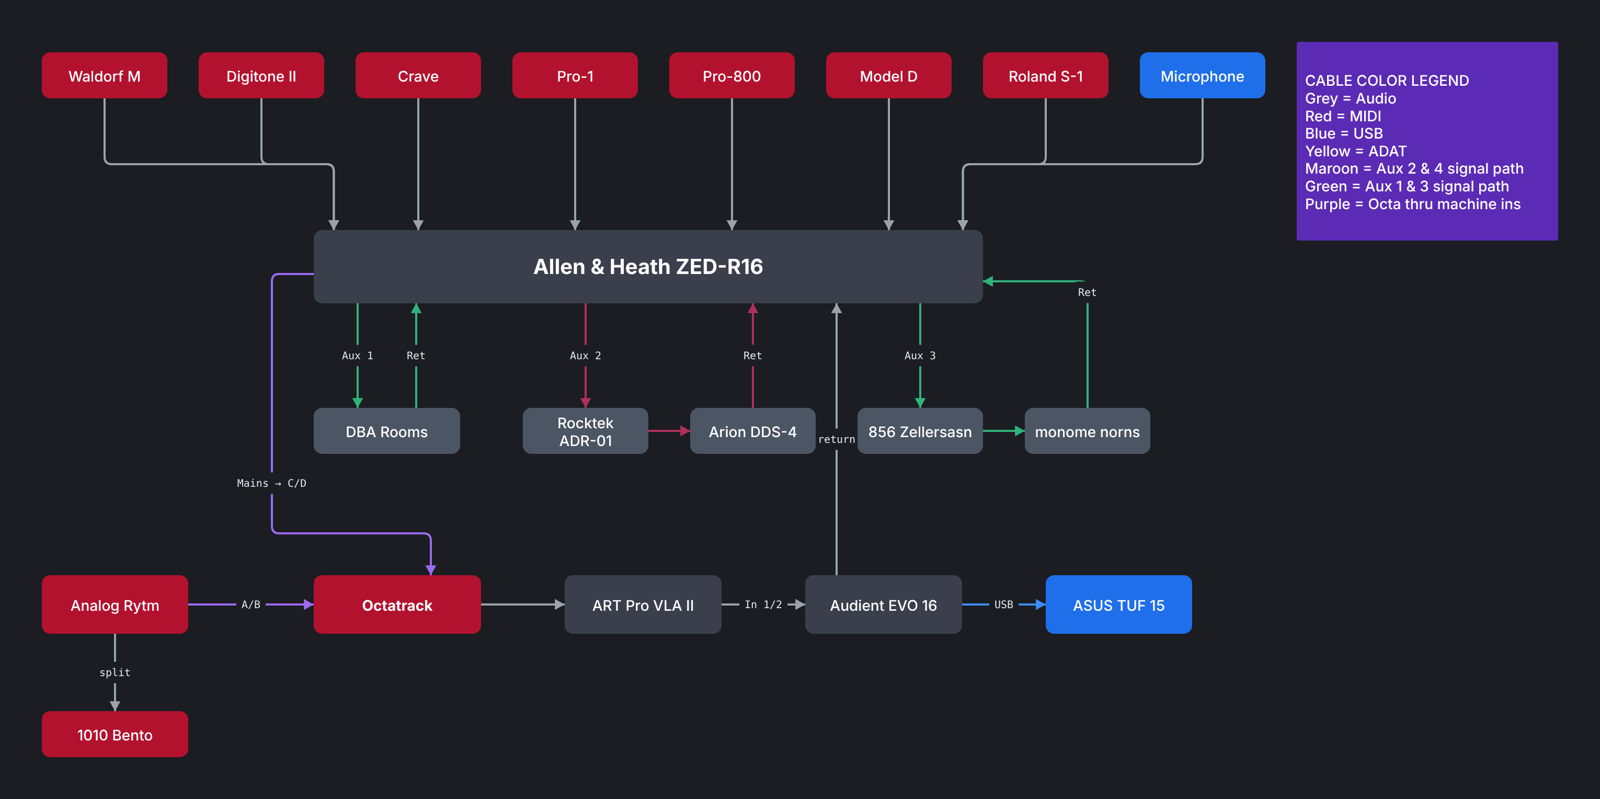
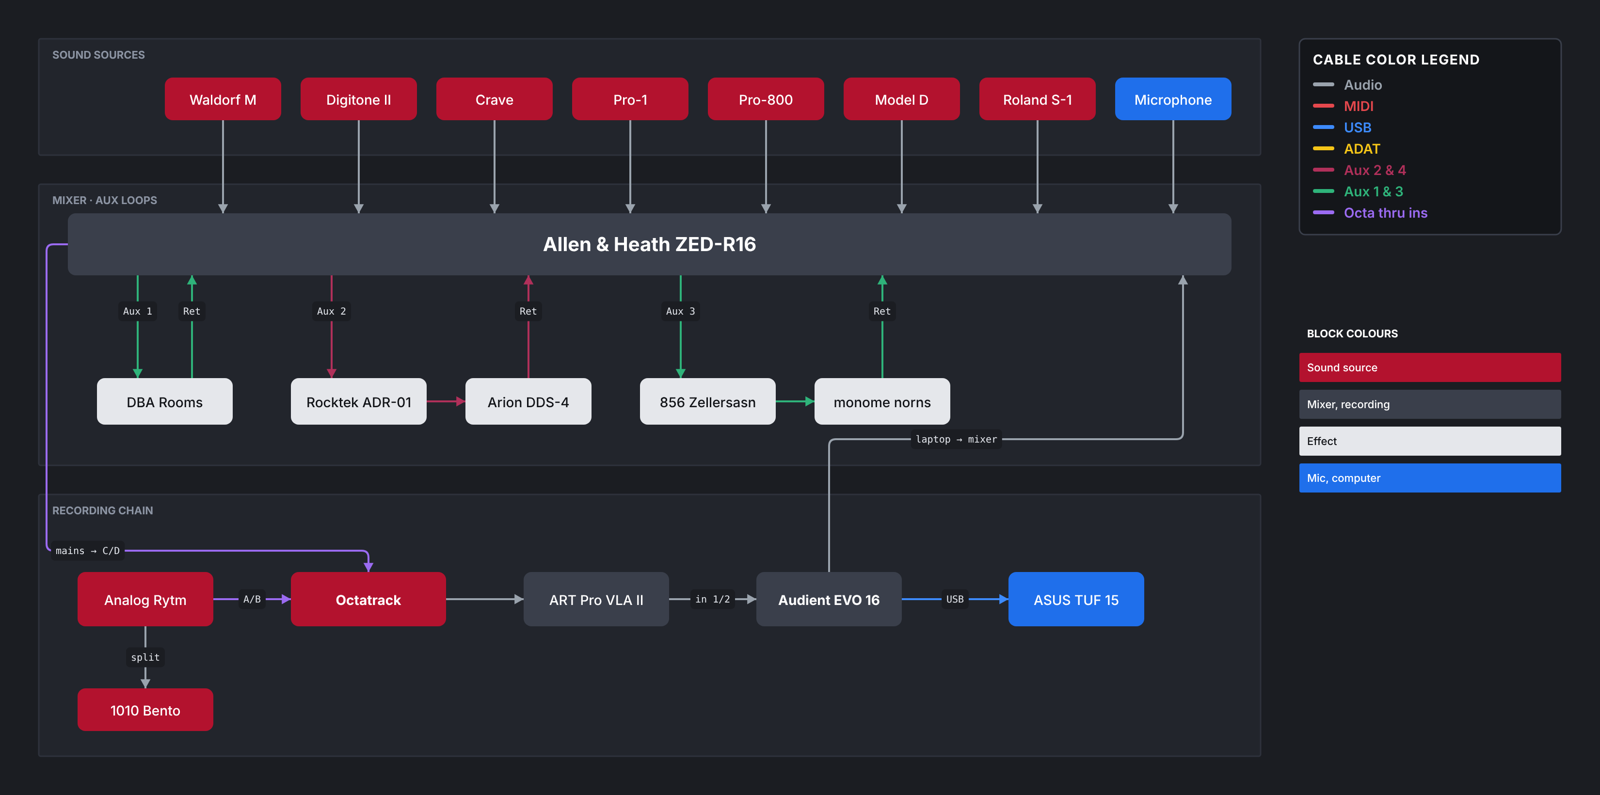
1.5.2: new example board; File → Add example board
The starter board now uses sections, self-routing cables (no fixed bends) and
the live legend, with a block colour key. README screenshot updated.

Claude-Session: https://claude.ai/code/session_01JnH6MJcacfThSkV8Vr75rK

diff --git a/index.html b/index.html
@@ -357,45 +357,54 @@ const W=id=>wmap.get(id);
 function newBoardObj(name){return {id:uid(),name,bg:'#1b1d22',grid:true,nodes:[],wires:[],legend:Object.fromEntries(WIRE_COLORS.map(c=>[c[0],c[1]])),view:null,created:Date.now()}}
 
 function seedBoard(){
-  const b=newBoardObj('Current Setup '+today());
-  const node=(text,x,y,fill,w=130,h=44,extra={})=>{const o={id:uid(),type:'round',x,y,w,h,text,fill,stroke:'none',textColor:'#ffffff',fontSize:'m',bold:false,align:'center',...extra};b.nodes.push(o);return o};
+  const b=newBoardObj('Example board');
+  const node=(text,x,y,fill,w=130,h=44,extra={})=>{const o={id:uid(),type:'round',x,y,w,h,text,fill,stroke:'none',textColor:fill==='#e5e7eb'?'#111317':'#ffffff',fontSize:'m',bold:false,align:'center',...extra};b.nodes.push(o);return o};
+  const zone=(text,x,y,w,h)=>node(text,x,y,'#22252c',w,h,{type:'rect',zone:true,stroke:'#2e323c',textColor:'#8c94a3',fontSize:'s',bold:true,align:'left'});
   const wire=(a,af,z,zf,color,label='',extra={})=>{const w={id:uid(),from:{node:a.id,fx:af[0],fy:af[1]},to:{node:z.id,fx:zf[0],fy:zf[1]},pts:[],color,width:2,style:'elbow',label,labelSize:'s',labelPos:.5,arrowEnd:true,arrowStart:false,dash:false,...extra};b.wires.push(w);return w};
-  const CR='#b3122e', SL='#3a3f4b', FX='#4b5563';
+  const SRC='#b3122e',MIX='#3a3f4b',FX='#e5e7eb',MIC='#1f6feb';
+  const AUD='#9aa3ad',USB='#3d8bfd',A13='#2fb37a',A24='#b0305a',OCT='#9b6bf2';
+  // sections first, so they sit behind everything
+  zone('SOUND SOURCES',40,40,1260,120);
+  zone('MIXER  ·  AUX LOOPS',40,190,1260,290);
+  zone('RECORDING CHAIN',40,510,1260,270);
+  // sources, each dropping straight into the mixer
   const names=['Waldorf M','Digitone II','Crave','Pro-1','Pro-800','Model D','Roland S-1','Microphone'];
-  const synths=names.map((t,i)=>node(t,40+i*150,60,i===7?'#1f6feb':CR,120,44));
-  const zed=node('Allen & Heath ZED-R16',300,230,SL,640,70,{fontSize:'l',bold:true});
-  synths.forEach((s,i)=>{const cx=s.x+s.w/2;const fx=clamp((cx-zed.x)/zed.w,.03,.97);wire(s,[.5,1],zed,[fx,0],'#9aa3ad')});
-  const rooms=node('DBA Rooms',300,400,FX,140,44);
-  const adr=node('Rocktek ADR-01',500,400,FX,120,44);
-  const dds=node('Arion DDS-4',660,400,FX,120,44);
-  const z856=node('856 Zellersasn',820,400,FX,120,44);
-  const norns=node('monome norns',980,400,FX,120,44);
-  const fxAt=x=>(x-zed.x)/zed.w;
-  wire(zed,[fxAt(342),1],rooms,[.3,0],'#2fb37a','Aux 1');
-  wire(rooms,[.7,0],zed,[fxAt(398),1],'#2fb37a','Ret');
-  wire(zed,[fxAt(560),1],adr,[.5,0],'#b0305a','Aux 2');
-  wire(adr,[1,.5],dds,[0,.5],'#b0305a');
-  wire(dds,[.5,0],zed,[fxAt(720),1],'#b0305a','Ret');
-  wire(zed,[fxAt(880),1],z856,[.5,0],'#2fb37a','Aux 3');
-  wire(z856,[1,.5],norns,[0,.5],'#2fb37a');
-  wire(norns,[.5,0],zed,[1,.7],'#2fb37a','Ret');
-  const rytm=node('Analog Rytm',40,560,CR,140,56);
-  const octa=node('Octatrack',300,560,CR,160,56,{bold:true});
-  const vla=node('ART Pro VLA II',540,560,SL,150,56);
-  const evo=node('Audient EVO 16',770,560,SL,150,56);
-  const lap=node('ASUS TUF 15',1000,560,'#1f6feb',140,56);
-  const bento=node('1010 Bento',40,690,CR,140,44);
-  wire(zed,[0,.6],octa,[.7,0],'#9b6bf2','Mains → C/D',{pts:[{x:260,y:520}]});
-  wire(rytm,[1,.5],octa,[0,.5],'#9b6bf2','A/B');
-  wire(rytm,[.5,1],bento,[.5,0],'#9aa3ad','split');
-  wire(octa,[1,.5],vla,[0,.5],'#9aa3ad');
-  wire(vla,[1,.5],evo,[0,.5],'#9aa3ad','In 1/2');
-  wire(evo,[1,.5],lap,[0,.5],'#3d8bfd','USB');
-  wire(evo,[.2,0],zed,[fxAt(800),1],'#9aa3ad','return',{style:'straight'});
-  node('CABLE COLOR LEGEND',1240,50,'#14161a',260,60,{type:'legend',stroke:'#3a3f4b',align:'left',bold:true,showAll:true});
+  const src=names.map((t,i)=>node(t,170+i*140,80,i===7?MIC:SRC,120,44));
+  const zed=node('Allen & Heath ZED-R16',70,220,MIX,1200,64,{fontSize:'l',bold:true});
+  const at=x=>(x-zed.x)/zed.w;
+  src.forEach(n=>wire(n,[.5,1],zed,[at(n.x+n.w/2),0],AUD));
+  // aux loops: send down from the mixer, return back up
+  const rooms=node('DBA Rooms',100,390,FX,140,48);
+  const adr=node('Rocktek ADR-01',300,390,FX,140,48);
+  const dds=node('Arion DDS-4',480,390,FX,130,48);
+  const z856=node('856 Zellersasn',660,390,FX,140,48);
+  const norns=node('monome norns',840,390,FX,140,48);
+  const send=(dev,lab,col,fx=.3)=>wire(zed,[at(dev.x+dev.w*fx),1],dev,[fx,0],col,lab,{labelPos:.35});
+  const ret=(dev,lab,col,fx=.7)=>wire(dev,[fx,0],zed,[at(dev.x+dev.w*fx),1],col,lab,{labelPos:.65});
+  send(rooms,'Aux 1',A13);ret(rooms,'Ret',A13);
+  send(adr,'Aux 2',A24);wire(adr,[1,.5],dds,[0,.5],A24);ret(dds,'Ret',A24,.5);
+  send(z856,'Aux 3',A13);wire(z856,[1,.5],norns,[0,.5],A13);ret(norns,'Ret',A13,.5);
+  // recording chain
+  const rytm=node('Analog Rytm',80,590,SRC,140,56);
+  const octa=node('Octatrack',300,590,SRC,160,56,{bold:true});
+  const vla=node('ART Pro VLA II',540,590,MIX,150,56);
+  const evo=node('Audient EVO 16',780,590,MIX,150,56,{bold:true});
+  const lap=node('ASUS TUF 15',1040,590,MIC,140,56);
+  const bento=node('1010 Bento',80,710,SRC,140,44);
+  // the mains leave the mixer's side and route themselves around the aux row into the Octatrack
+  wire(zed,[0,.5],octa,[.5,0],OCT,'mains → C/D',{labelPos:.55});
+  wire(rytm,[1,.5],octa,[0,.5],OCT,'A/B');
+  wire(rytm,[.5,1],bento,[.5,0],AUD,'split');
+  wire(octa,[1,.5],vla,[0,.5],AUD);
+  wire(vla,[1,.5],evo,[0,.5],AUD,'in 1/2');
+  wire(evo,[1,.5],lap,[0,.5],USB,'USB');
+  wire(evo,[.5,0],zed,[at(1220),1],AUD,'laptop → mixer',{labelPos:.4});
+  // keys
+  node('CABLE COLOR LEGEND',1340,40,'#14161a',270,60,{type:'legend',stroke:'#3a3f4b',align:'left',bold:true,showAll:true});
+  node('BLOCK COLOURS',1340,330,'none',270,28,{type:'text',fontSize:'s',bold:true,align:'left'});
+  [['Sound source',SRC],['Mixer, recording',MIX],['Effect',FX],['Mic, computer',MIC]].forEach(([t,c],i)=>node(t,1340,364+i*38,c,270,30,{type:'rect',fontSize:'s',align:'left'}));
   return b;
 }
-
 function load(){
   try{const raw=localStorage.getItem(KEY);if(raw){const s=JSON.parse(raw);if(s&&Array.isArray(s.boards))store=s}}
   catch(e){storageOK=false}
@@ -1711,6 +1720,11 @@ async function openSharedFromHash(){
 }
 window.addEventListener('hashchange',()=>{if(location.hash.startsWith('#b='))openSharedFromHash()});
 
+function addExampleBoard(){
+  finishEdit();const b=seedBoard();
+  let name='Example board',i=2;while(store.boards.some(x=>x.name===name))name='Example board '+(i++);
+  b.name=name;store.boards.push(b);openBoard(b.id);toast('Added '+name+' to your boards');
+}
 /* file menu */
 const fm=$('#fileMenu'),fb=$('#fileBtn');
 function closeFileMenu(){fm.hidden=true;fb.setAttribute('aria-expanded','false')}
@@ -1720,6 +1734,7 @@ function openFileMenu(){
     <button role="menuitem" data-f="save"${off?' disabled':''}>${L?'Save now':'Save to file…'}<kbd>Ctrl S</kbd></button>
     ${fsOK?`<button role="menuitem" data-f="saveas">Save as new file…<kbd>Ctrl ⇧ S</kbd></button>`:''}
     <button role="menuitem" data-f="open">Open file…<kbd>Ctrl O</kbd></button>
+    <button role="menuitem" data-f="example">Add example board</button>
     ${L?`<button role="menuitem" data-f="unlink">Stop saving to this file</button>`:''}
     <hr><button role="menuitem" data-f="share"${off?' disabled':''}>Share link…</button>
     ${off?'<div class="fm-note">Saving to files and share links work on the Patchbay site and desktop app.</div>':(!fsOK?'<div class="fm-note">This browser downloads a board file instead of saving in place. Chrome and Edge can keep saving to the same file.</div>':'')}`;
@@ -1728,7 +1743,7 @@ function openFileMenu(){
 }
 fb.onclick=e=>{e.stopPropagation();fm.hidden?openFileMenu():closeFileMenu()};
 fm.addEventListener('click',e=>{const b=e.target.closest('[data-f]');if(!b||b.disabled)return;closeFileMenu();
-  ({save:()=>saveToFile(false),saveas:()=>saveToFile(true),open:openFromFile,unlink:()=>unlink(B.id),share:shareLink})[b.dataset.f]()});
+  ({save:()=>saveToFile(false),saveas:()=>saveToFile(true),open:openFromFile,unlink:()=>unlink(B.id),share:shareLink,example:addExampleBoard})[b.dataset.f]()});
 document.addEventListener('pointerdown',e=>{if(!fm.hidden&&!e.target.closest('#fileMenu,#fileBtn'))closeFileMenu()});
 fm.addEventListener('keydown',e=>{if(e.key==='Escape'){closeFileMenu();fb.focus()}
   if(e.key==='ArrowDown'||e.key==='ArrowUp'){e.preventDefault();const bs=[...fm.querySelectorAll('button:not([disabled])')];const i=bs.indexOf(document.activeElement);bs[(i+(e.key==='ArrowDown'?1:-1)+bs.length)%bs.length].focus()}});

diff --git a/sw.js b/sw.js
@@ -1,5 +1,5 @@
 // Patchbay offline cache. Bump VERSION when index.html changes so installed copies update.
-const VERSION = 'patchbay-v1.5.1';
+const VERSION = 'patchbay-v1.5.2';
 const SHELL = ['./', 'index.html', 'manifest.webmanifest', 'icons/icon-192.png', 'icons/icon-512.png'];
 
 self.addEventListener('install', e => {

diff --git a/README.md b/README.md
@@ -5,7 +5,7 @@ A diagram editor for mapping hardware studio rigs: synths, mixers, aux sends and
 **Open it:** https://kenneth-rakentine.github.io/Patchbay/
 **Windows app:** [latest release](https://github.com/Kenneth-Rakentine/Patchbay/releases/latest)
 
-![Example board: synths into a ZED-R16 mixer with aux loops, then Octatrack, compressor and interface](docs/example-board.png)
+![Example board: synths into a ZED-R16 mixer with aux loops, then Octatrack, compressor and interface, grouped into sections with a colour-coded cable legend](docs/example-board.png)
 
 ## What it does
 
@@ -79,6 +79,10 @@ You can also drag a board file straight onto the Patchbay window. If you open a 
 ### Share a board as a link
 
 Click the **File** button, choose **Share link…**, then **Copy link**. Whoever opens the link gets their own copy of the board to edit. Nothing is uploaded anywhere: the whole board is packed into the link. Big boards make long links, so if a forum cuts one off, share the board file instead.
+
+### Example board
+
+New visitors start with an example board. To get a fresh copy anytime, click the **File** button and choose **Add example board**. It's added alongside your own boards, so nothing you have changes.
 
 ### Back up everything
 

diff --git a/RELEASE_NOTES.md b/RELEASE_NOTES.md
@@ -1,6 +1,8 @@
 Patchbay: a diagram editor for hardware studio rigs.
 
-**New in 1.5.1:** double-clicking a block always edits its text (it no longer creates a new block), double-clicking a cable names it, N adds a block at the cursor (Ctrl+1 in the desktop app), and toolbar buttons show their shortcuts on hover.
+**New in 1.5.2:** a new example board that shows sections, self-routing cables and the live colour-coded legend. File → Add example board adds a copy anytime.
+
+**1.5.1:** double-clicking a block always edits its text (it no longer creates a new block), double-clicking a cable names it, N adds a block at the cursor (Ctrl+1 in the desktop app), and toolbar buttons show their shortcuts on hover.
 
 **1.5.0:** cables route around blocks instead of behind them, leaving and entering square to the side they're attached to, and re-plan live while you drag. Select a cable and drag the white handle on any middle segment to move that part of it; Clear bends returns it to automatic.
 
